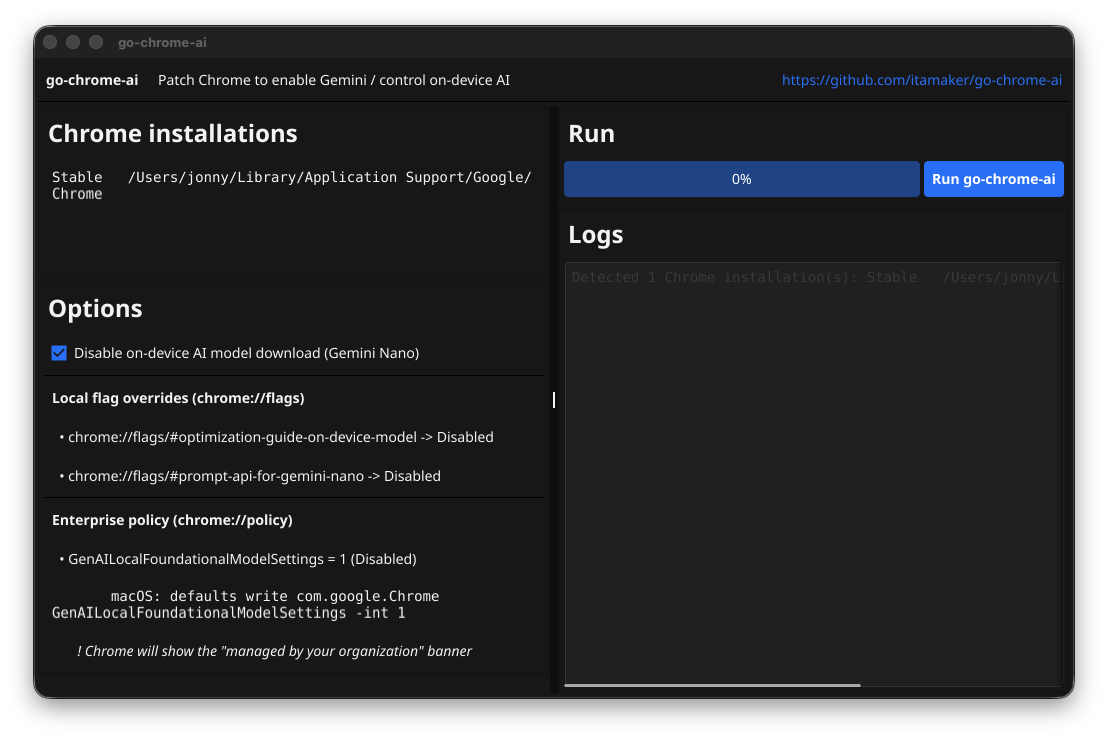
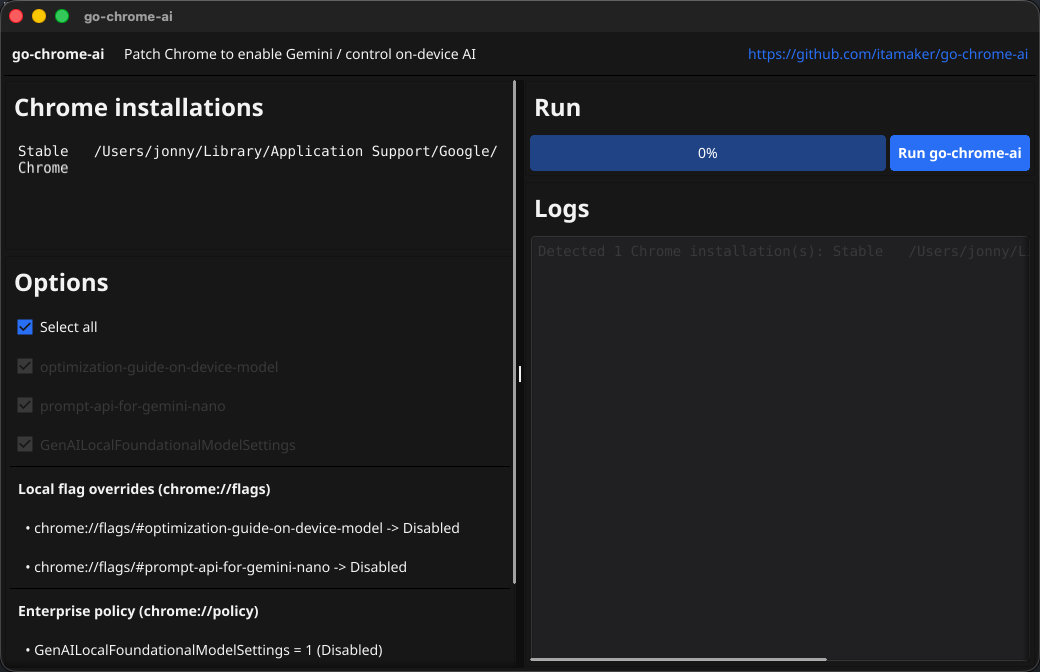
docs: drop Chinese README, remove Acknowledgements, refresh GUI screenshot

Changed region(s): [[0.0, 0.0, 1.0, 1.0], [0.4923, 0.5312, 0.5231, 0.5938]]

diff --git a/README.md b/README.md
@@ -2,8 +2,6 @@
 
 [![All Contributors](https://img.shields.io/badge/all_contributors-1-orange.svg?style=flat-square)](#contributors-)
 
-English | [中文](docs/README.zh.md)
-
 `go-chrome-ai` is a cross-platform Chrome profile patcher written in Go, with both **CLI** and **GUI** modes.
 It helps enable Chrome AI-related features (including **Ask Gemini**) without reinstalling Chrome or recreating your profile, and can also **block Chrome from silently downloading the on-device Gemini Nano model** (~2–4 GB) by flipping the relevant `chrome://flags` and applying Google's [`GenAILocalFoundationalModelSettings`](https://chromeenterprise.google/policies/gen-ai-local-foundational-model-settings/) Enterprise policy.
 
@@ -148,12 +146,6 @@ go-chrome-ai gui    # GUI mode on macOS release builds or source builds
 - Back up Chrome `User Data` if you want a safety net.
 - Run with the same OS user that owns the Chrome profile.
 - Not affiliated with Google. Use at your own risk.
-
-## Acknowledgements
-
-[![Built with OpenAI Codex](https://img.shields.io/badge/Built%20with-OpenAI%20Codex-10A37F?style=for-the-badge&logo=openai&logoColor=white)](https://chatgpt.com/codex)
-
-Special thanks to **OpenAI Codex** for assisting with parts of the implementation of this project.
 
 ## Contributors ✨
 
